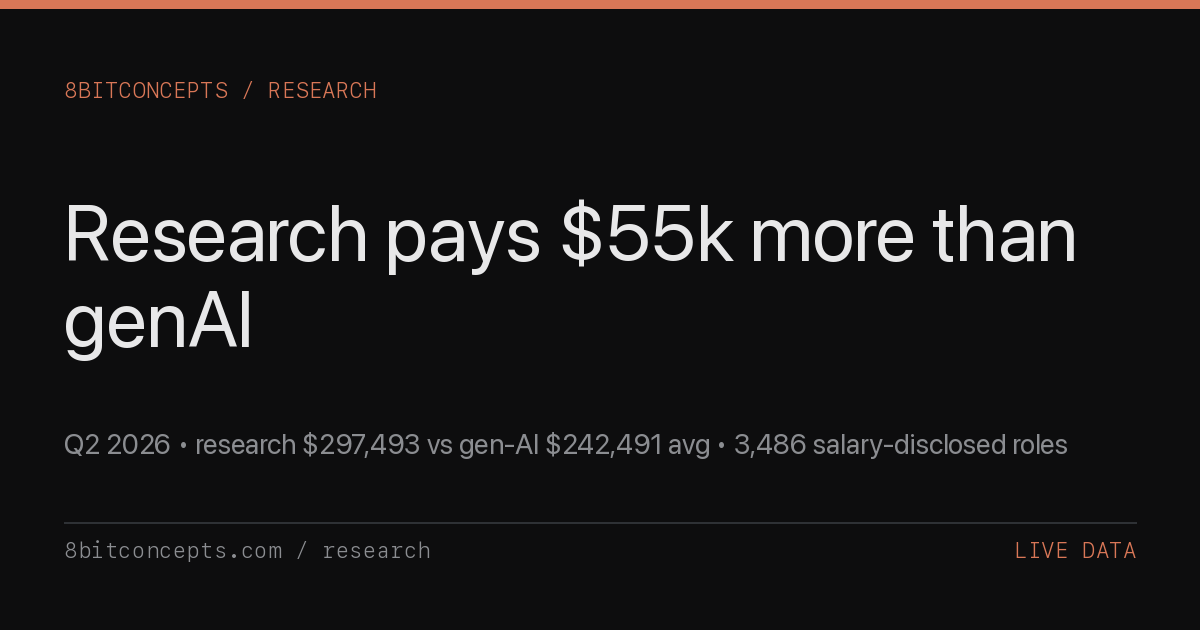
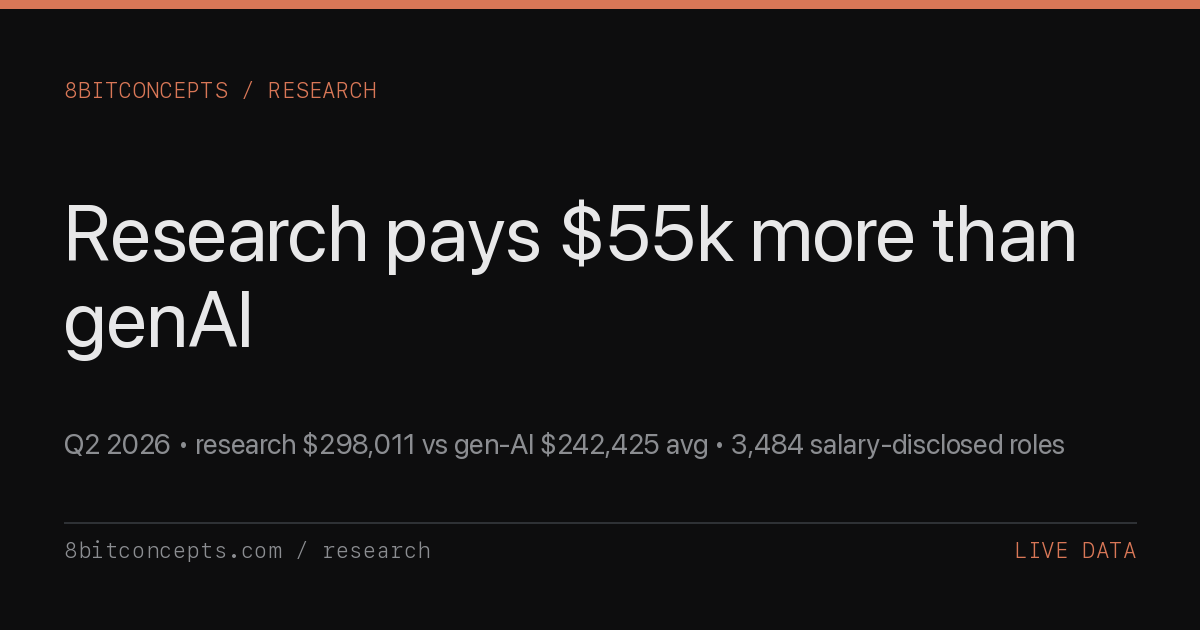
compensation-by-skill: auto-regenerate 2026-08-17

Changed region(s): [[0.2775, 0.6635, 0.8942, 0.7238]]

diff --git a/research/q2-2026-ai-compensation-by-skill.html b/research/q2-2026-ai-compensation-by-skill.html
@@ -5,11 +5,11 @@
   <meta name="viewport" content="width=device-width, initial-scale=1.0" />
   <meta name="referrer" content="strict-origin-when-cross-origin" />
   <meta name="color-scheme" content="dark light" />
-  <meta name="last-updated" content="2026-08-10" />
+  <meta name="last-updated" content="2026-08-17" />
   <title>Q2 2026 AI Engineering Compensation by Skill -- 8bitconcepts</title>
-  <meta name="description" content="Live AI engineering compensation by skill: top-paying tags, most in-demand tags, sweet-spot skills, salary by experience level, distribution across 3,486 salary-disclosed roles. Median $220,000. Auto-regenerated weekly from aidevboard.com API." />
+  <meta name="description" content="Live AI engineering compensation by skill: top-paying tags, most in-demand tags, sweet-spot skills, salary by experience level, distribution across 3,484 salary-disclosed roles. Median $220,000. Auto-regenerated weekly from aidevboard.com API." />
   <meta property="og:title" content="Q2 2026 AI Engineering Compensation by Skill -- 8bitconcepts" />
-  <meta property="og:description" content="Top-paying AI skill: alignment at $369,497. Most in-demand: agents (2,775 roles). Median $220,000. Sweet-spot tags where high demand meets high pay. Live data, 2026-08-10." />
+  <meta property="og:description" content="Top-paying AI skill: alignment at $369,497. Most in-demand: agents (2,771 roles). Median $220,000. Sweet-spot tags where high demand meets high pay. Live data, 2026-08-17." />
   <meta property="og:type" content="article" />
   <meta property="og:url" content="https://8bitconcepts.com/research/q2-2026-ai-compensation-by-skill.html" />
   <meta property="og:image" content="https://8bitconcepts.com/research/og/q2-2026-ai-compensation-by-skill.png" />
@@ -17,7 +17,7 @@
   <meta property="og:image:height" content="630" />
   <meta name="twitter:card" content="summary_large_image" />
   <meta name="twitter:title" content="Q2 2026 AI Engineering Compensation by Skill" />
-  <meta name="twitter:description" content="AI engineering compensation by skill: top-paying = $369,497 (alignment). Median $220,000 across 3,486 salary-disclosed roles. 2026-08-10." />
+  <meta name="twitter:description" content="AI engineering compensation by skill: top-paying = $369,497 (alignment). Median $220,000 across 3,484 salary-disclosed roles. 2026-08-17." />
   <meta name="twitter:image" content="https://8bitconcepts.com/research/og/q2-2026-ai-compensation-by-skill.png" />
   <link rel="canonical" href="https://8bitconcepts.com/research/q2-2026-ai-compensation-by-skill.html" />
   <link rel="preconnect" href="https://fonts.googleapis.com" />
@@ -434,10 +434,10 @@
     "@context": "https://schema.org",
     "@type": "Article",
     "headline": "Q2 2026 AI Engineering Compensation by Skill",
-    "description": "Live AI engineering compensation analysis from aidevboard.com: top-paying skill tags, most in-demand tags, sweet-spot skills (high demand + high pay), salary distribution, and experience-level breakdown across 3,486 salary-disclosed roles.",
+    "description": "Live AI engineering compensation analysis from aidevboard.com: top-paying skill tags, most in-demand tags, sweet-spot skills (high demand + high pay), salary distribution, and experience-level breakdown across 3,484 salary-disclosed roles.",
     "url": "https://8bitconcepts.com/research/q2-2026-ai-compensation-by-skill.html",
     "datePublished": "2026-04-17",
-    "dateModified": "2026-08-10",
+    "dateModified": "2026-08-17",
     "author": {"@type": "Organization", "name": "8bitconcepts", "url": "https://8bitconcepts.com"},
     "publisher": {"@type": "Organization", "name": "8bitconcepts", "url": "https://8bitconcepts.com"},
     "image": "https://8bitconcepts.com/research/og/q2-2026-ai-compensation-by-skill.png",
@@ -477,10 +477,10 @@
 
     <h1>Q2 2026 AI Engineering Compensation by Skill</h1>
 
-    <p class="subtitle">Live compensation data from 3,486 salary-disclosed AI/ML engineering roles across 495 companies, as of 2026-08-10. The top-paying skill tags out-earn the most in-demand tags by tens of thousands per year. Live data pulled from <a href="https://aidevboard.com/api/v1/stats">aidevboard.com/api/v1/stats</a>.</p>
+    <p class="subtitle">Live compensation data from 3,484 salary-disclosed AI/ML engineering roles across 491 companies, as of 2026-08-17. The top-paying skill tags out-earn the most in-demand tags by tens of thousands per year. Live data pulled from <a href="https://aidevboard.com/api/v1/stats">aidevboard.com/api/v1/stats</a>.</p>
 
     <div class="meta">
-      <span class="meta-date">2026-08-10</span>
+      <span class="meta-date">2026-08-17</span>
       <span class="meta-tag">Live Data</span>
       <span class="meta-read">~800 words</span>
     </div>
@@ -489,7 +489,7 @@
 
       <h2>Executive summary</h2>
 
-      <p>Research roles pay a $55k premium over generative-AI roles ($297,493 vs $242,491 avg), even though generative-AI has roughly 2.2x more openings (1,693 vs 753). Here's what the 3,486-posting compensation dataset tells us about where AI engineering compensation is actually flowing &mdash; and where agents and LLMs sit in the middle.</p>
+      <p>Research roles pay a $55k premium over generative-AI roles ($298,011 vs $242,425 avg), even though generative-AI has roughly 2.2x more openings (1,687 vs 751). Here's what the 3,484-posting compensation dataset tells us about where AI engineering compensation is actually flowing &mdash; and where agents and LLMs sit in the middle.</p>
 
       <div class="stat-row">
         <div class="stat-box">
@@ -497,12 +497,12 @@
           <div class="stat-label">avg salary for <code>alignment</code> &mdash; the top-paying skill tag with 100+ roles</div>
         </div>
         <div class="stat-box">
-          <div class="stat-num">2,775</div>
+          <div class="stat-num">2,771</div>
           <div class="stat-label">roles tagged <code>agents</code> &mdash; the most in-demand skill in the index</div>
         </div>
         <div class="stat-box">
           <div class="stat-num">$220,000</div>
-          <div class="stat-label">median advertised salary across 3,486 salary-disclosed roles</div>
+          <div class="stat-label">median advertised salary across 3,484 salary-disclosed roles</div>
         </div>
       </div>
 
@@ -520,14 +520,14 @@
         </thead>
         <tbody>
           <tr><td><code>alignment</code></td><td class="num">402</td><td class="num">$369,497</td></tr>
-          <tr><td><code>research</code></td><td class="num">753</td><td class="num">$297,493</td></tr>
-          <tr><td><code>reinforcement-learning</code></td><td class="num">533</td><td class="num">$288,466</td></tr>
-          <tr><td><code>search</code></td><td class="num">667</td><td class="num">$282,892</td></tr>
-          <tr><td><code>distributed-systems</code></td><td class="num">1,462</td><td class="num">$268,306</td></tr>
+          <tr><td><code>research</code></td><td class="num">751</td><td class="num">$298,011</td></tr>
+          <tr><td><code>reinforcement-learning</code></td><td class="num">532</td><td class="num">$288,466</td></tr>
+          <tr><td><code>search</code></td><td class="num">666</td><td class="num">$283,382</td></tr>
+          <tr><td><code>distributed-systems</code></td><td class="num">1,459</td><td class="num">$268,306</td></tr>
           <tr><td><code>infrastructure</code></td><td class="num">601</td><td class="num">$262,564</td></tr>
-          <tr><td><code>pytorch</code></td><td class="num">958</td><td class="num">$256,968</td></tr>
-          <tr><td><code>fine-tuning</code></td><td class="num">865</td><td class="num">$251,929</td></tr>
-          <tr><td><code>llm</code></td><td class="num">2,621</td><td class="num">$249,610</td></tr>
+          <tr><td><code>pytorch</code></td><td class="num">953</td><td class="num">$256,903</td></tr>
+          <tr><td><code>fine-tuning</code></td><td class="num">861</td><td class="num">$252,160</td></tr>
+          <tr><td><code>llm</code></td><td class="num">2,615</td><td class="num">$249,610</td></tr>
           <tr><td><code>gpu</code></td><td class="num">535</td><td class="num">$248,223</td></tr>
         </tbody>
       </table>
@@ -545,24 +545,24 @@
           </tr>
         </thead>
         <tbody>
-          <tr><td><code>agents</code></td><td class="num">2,775</td><td class="num">$233,394</td></tr>
-          <tr><td><code>llm</code></td><td class="num">2,621</td><td class="num">$249,610</td></tr>
-          <tr><td><code>generative-ai</code></td><td class="num">1,693</td><td class="num">$242,491</td></tr>
-          <tr><td><code>cloud</code></td><td class="num">1,641</td><td class="num">$230,000</td></tr>
-          <tr><td><code>distributed-systems</code></td><td class="num">1,462</td><td class="num">$268,306</td></tr>
-          <tr><td><code>payments</code></td><td class="num">1,423</td><td class="num">$210,778</td></tr>
+          <tr><td><code>agents</code></td><td class="num">2,771</td><td class="num">$233,394</td></tr>
+          <tr><td><code>llm</code></td><td class="num">2,615</td><td class="num">$249,610</td></tr>
+          <tr><td><code>generative-ai</code></td><td class="num">1,687</td><td class="num">$242,425</td></tr>
+          <tr><td><code>cloud</code></td><td class="num">1,638</td><td class="num">$230,000</td></tr>
+          <tr><td><code>distributed-systems</code></td><td class="num">1,459</td><td class="num">$268,306</td></tr>
+          <tr><td><code>payments</code></td><td class="num">1,420</td><td class="num">$210,778</td></tr>
           <tr><td><code>healthcare</code></td><td class="num">1,171</td><td class="num">$213,798</td></tr>
-          <tr><td><code>data-pipeline</code></td><td class="num">1,167</td><td class="num">$239,846</td></tr>
+          <tr><td><code>data-pipeline</code></td><td class="num">1,166</td><td class="num">$239,846</td></tr>
           <tr><td><code>robotics</code></td><td class="num">1,111</td><td class="num">$214,713</td></tr>
-          <tr><td><code>pytorch</code></td><td class="num">958</td><td class="num">$256,968</td></tr>
+          <tr><td><code>pytorch</code></td><td class="num">953</td><td class="num">$256,903</td></tr>
         </tbody>
       </table>
 
       <h2>The gap: where demand meets pay</h2>
 
-      <p><strong>Sweet-spot tags &mdash; high demand <em>and</em> high pay.</strong> <code>llm</code> (2,621 roles, $249,610 avg), <code>distributed-systems</code> (1,462 roles, $268,306 avg), <code>pytorch</code> (958 roles, $256,968 avg), <code>fine-tuning</code> (865 roles, $251,929 avg), <code>research</code> (753 roles, $297,493 avg). These are the skills the market is willing to pay above-median for <em>and</em> hire above-median volumes of. If you're choosing what to learn next, this is where leverage compounds.</p>
+      <p><strong>Sweet-spot tags &mdash; high demand <em>and</em> high pay.</strong> <code>llm</code> (2,615 roles, $249,610 avg), <code>distributed-systems</code> (1,459 roles, $268,306 avg), <code>pytorch</code> (953 roles, $256,903 avg), <code>fine-tuning</code> (861 roles, $252,160 avg), <code>research</code> (751 roles, $298,011 avg). These are the skills the market is willing to pay above-median for <em>and</em> hire above-median volumes of. If you're choosing what to learn next, this is where leverage compounds.</p>
 
-      <p><strong>High demand, lower pay.</strong> <code>agents</code> (2,775 roles, $233,394 avg), <code>generative-ai</code> (1,693 roles, $242,491 avg), <code>cloud</code> (1,641 roles, $230,000 avg), <code>payments</code> (1,423 roles, $210,778 avg), <code>healthcare</code> (1,171 roles, $213,798 avg). These tags are popular in job postings but compensation has not kept pace &mdash; usually because the labor pool is large or the work is more easily commoditized. Volume here doesn't translate to negotiating leverage.</p>
+      <p><strong>High demand, lower pay.</strong> <code>agents</code> (2,771 roles, $233,394 avg), <code>generative-ai</code> (1,687 roles, $242,425 avg), <code>cloud</code> (1,638 roles, $230,000 avg), <code>payments</code> (1,420 roles, $210,778 avg), <code>healthcare</code> (1,171 roles, $213,798 avg). These tags are popular in job postings but compensation has not kept pace &mdash; usually because the labor pool is large or the work is more easily commoditized. Volume here doesn't translate to negotiating leverage.</p>
 
       <div class="callout">
         <p>The most useful frame for a job seeker isn't "highest paying" or "most posted." It's the intersection &mdash; tags where both axes are above the median. That's where you have negotiating leverage <em>and</em> a healthy supply of openings to negotiate against.</p>
@@ -570,7 +570,7 @@
 
       <h2>By experience level</h2>
 
-      <p>The ladder skews heavily senior. Senior, lead, and principal roles account for 6,150 of 8,996 classified roles &mdash; 68.4% of the index. Junior makes up just 559 (6.2%). The salary endpoint reports a single weighted median of $220,000 (p25 $180,000, p75 $270,000, average $232,683); the heavy senior weighting is the main reason that median sits well above $200k. <em>Note: the public <code>/api/v1/stats</code> endpoint exposes counts by level but not salary by level &mdash; to derive average salary per band, query the <a href="https://aidevboard.com/api/v1/jobs">/api/v1/jobs</a> endpoint with <code>level=</code> filters and aggregate locally.</em></p>
+      <p>The ladder skews heavily senior. Senior, lead, and principal roles account for 6,135 of 8,977 classified roles &mdash; 68.3% of the index. Junior makes up just 559 (6.2%). The salary endpoint reports a single weighted median of $220,000 (p25 $180,000, p75 $270,000, average $232,691); the heavy senior weighting is the main reason that median sits well above $200k. <em>Note: the public <code>/api/v1/stats</code> endpoint exposes counts by level but not salary by level &mdash; to derive average salary per band, query the <a href="https://aidevboard.com/api/v1/jobs">/api/v1/jobs</a> endpoint with <code>level=</code> filters and aggregate locally.</em></p>
 
       <table class="data-table">
         <thead>
@@ -582,16 +582,16 @@
         </thead>
         <tbody>
           <tr><td>Junior</td><td class="num">559</td><td class="num">6.2%</td></tr>
-          <tr><td>Mid</td><td class="num">2,287</td><td class="num">25.4%</td></tr>
-          <tr><td>Senior</td><td class="num">3,027</td><td class="num">33.6%</td></tr>
-          <tr><td>Lead</td><td class="num">2,498</td><td class="num">27.8%</td></tr>
-          <tr><td>Principal</td><td class="num">625</td><td class="num">6.9%</td></tr>
+          <tr><td>Mid</td><td class="num">2,283</td><td class="num">25.4%</td></tr>
+          <tr><td>Senior</td><td class="num">3,023</td><td class="num">33.7%</td></tr>
+          <tr><td>Lead</td><td class="num">2,487</td><td class="num">27.7%</td></tr>
+          <tr><td>Principal</td><td class="num">625</td><td class="num">7.0%</td></tr>
         </tbody>
       </table>
 
       <h2>Salary distribution</h2>
 
-      <p>Of the 3,486 roles publishing salary, 2,530 (72.6%) fall inside the $150k-$300k core band &mdash; that's where the bulk of AI engineering compensation lives. 593 roles (17.0%) clear $300k, and 363 (10.4%) sit below $150k. The distribution is right-skewed: a meaningful tail above $400k (169 roles) pulls the average $232,683 above the median $220,000.</p>
+      <p>Of the 3,484 roles publishing salary, 2,528 (72.6%) fall inside the $150k-$300k core band &mdash; that's where the bulk of AI engineering compensation lives. 593 roles (17.0%) clear $300k, and 363 (10.4%) sit below $150k. The distribution is right-skewed: a meaningful tail above $400k (169 roles) pulls the average $232,691 above the median $220,000.</p>
 
       <table class="data-table">
         <thead>
@@ -603,12 +603,12 @@
         </thead>
         <tbody>
           <tr><td>Under $100k</td><td class="num">72</td><td class="num">2.1%</td></tr>
-          <tr><td>$100k-$150k</td><td class="num">291</td><td class="num">8.3%</td></tr>
-          <tr><td>$150k-$200k</td><td class="num">914</td><td class="num">26.2%</td></tr>
+          <tr><td>$100k-$150k</td><td class="num">291</td><td class="num">8.4%</td></tr>
+          <tr><td>$150k-$200k</td><td class="num">913</td><td class="num">26.2%</td></tr>
           <tr><td>$200k-$250k</td><td class="num">1,038</td><td class="num">29.8%</td></tr>
-          <tr><td>$250k-$300k</td><td class="num">578</td><td class="num">16.6%</td></tr>
+          <tr><td>$250k-$300k</td><td class="num">577</td><td class="num">16.6%</td></tr>
           <tr><td>$300k-$400k</td><td class="num">424</td><td class="num">12.2%</td></tr>
-          <tr><td>$400k+</td><td class="num">169</td><td class="num">4.8%</td></tr>
+          <tr><td>$400k+</td><td class="num">169</td><td class="num">4.9%</td></tr>
         </tbody>
       </table>
 
@@ -618,7 +618,7 @@
 
       <h2>Methodology</h2>
 
-      <p>This note is generated from the live <a href="https://aidevboard.com/api/v1/stats">aidevboard.com/api/v1/stats</a> endpoint &mdash; a public, unauthenticated JSON API. The underlying index scrapes 560+ ATS sources (Ashby, Greenhouse, Lever, Workday, custom careers pages) on a daily cron, deduplicates by (company, title, location), classifies each role into a normalized skill-tag set with a rules-based parser, and stores employer-advertised salary ranges where present. Of 8,996 roles in the index, 3,486 disclose a salary range &mdash; the rest are silently excluded from the salary tables. <strong>Caveats</strong>: (1) salaries are advertised midpoints, not actual offers; (2) US-disclosure laws drive the highest disclosure rates so the dataset over-represents California, New York, Washington, and Colorado; (3) tag averages assume a role with multiple tags contributes its full salary to each tag's average; (4) the 100-role minimum on the top-paying table filters out small-n noise. This page auto-regenerates weekly.</p>
+      <p>This note is generated from the live <a href="https://aidevboard.com/api/v1/stats">aidevboard.com/api/v1/stats</a> endpoint &mdash; a public, unauthenticated JSON API. The underlying index scrapes 560+ ATS sources (Ashby, Greenhouse, Lever, Workday, custom careers pages) on a daily cron, deduplicates by (company, title, location), classifies each role into a normalized skill-tag set with a rules-based parser, and stores employer-advertised salary ranges where present. Of 8,977 roles in the index, 3,484 disclose a salary range &mdash; the rest are silently excluded from the salary tables. <strong>Caveats</strong>: (1) salaries are advertised midpoints, not actual offers; (2) US-disclosure laws drive the highest disclosure rates so the dataset over-represents California, New York, Washington, and Colorado; (3) tag averages assume a role with multiple tags contributes its full salary to each tag's average; (4) the 100-role minimum on the top-paying table filters out small-n noise. This page auto-regenerates weekly.</p>
 
       <p><strong>Download raw data:</strong> The compensation-by-skill dataset is mirrored as a public gist &mdash; <a href="https://gist.githubusercontent.com/unitedideas/b1b80d11f0f187f93fd6b1a599df418e/raw/ai-compensation-by-skill.csv">CSV</a> &middot; <a href="https://gist.githubusercontent.com/unitedideas/b1b80d11f0f187f93fd6b1a599df418e/raw/ai-compensation-by-skill.md">Markdown</a> &middot; <a href="https://gist.github.com/unitedideas/b1b80d11f0f187f93fd6b1a599df418e">view on GitHub</a>. Auto-updated every weekly regeneration; canonical raw URLs are stable across revisions.</p>
 
@@ -668,9 +668,9 @@
     <div class="footnotes">
       <h4>Sources</h4>
       <ol>
-        <li>AI Dev Jobs &mdash; <a href="https://aidevboard.com/api/v1/stats">/api/v1/stats</a>, pulled 2026-08-10T15:30:02Z. Public unauthenticated endpoint. Backing index: 8,996 roles / 495 companies / 3,486 salary-disclosed.</li>
+        <li>AI Dev Jobs &mdash; <a href="https://aidevboard.com/api/v1/stats">/api/v1/stats</a>, pulled 2026-08-17T15:30:01Z. Public unauthenticated endpoint. Backing index: 8,977 roles / 491 companies / 3,484 salary-disclosed.</li>
         <li>AI Dev Jobs &mdash; <a href="https://aidevboard.com/api/v1/jobs">/api/v1/jobs</a>, paginated job-level endpoint with <code>level=</code> and <code>tag=</code> filters for deeper aggregation.</li>
-        <li>Salary figures are employer-advertised midpoints from public ATS feeds. Of 8,996 indexed roles, 3,486 disclose a salary range (driven heavily by US pay-transparency laws).</li>
+        <li>Salary figures are employer-advertised midpoints from public ATS feeds. Of 8,977 indexed roles, 3,484 disclose a salary range (driven heavily by US pay-transparency laws).</li>
         <li>Tag averages: a role with multiple tags contributes its full salary to each tag's average (no fractional weighting). The 100-role minimum on the top-paying table filters out small-sample noise; the most-in-demand table has no minimum.</li>
       </ol>
     </div>
